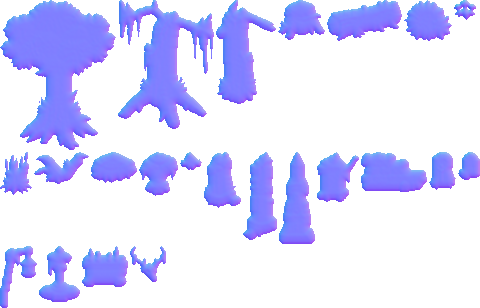
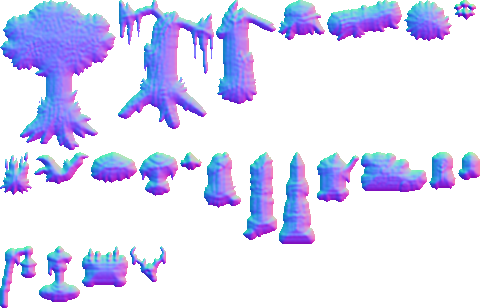
Normal map mais forte nos objetos de cenario
Normal = Sobel de uma altura: domo sqrt pela distancia ate a borda (raio 6-10 px,
~50-65 graus na borda), bojo amplo para o corpo inclinar, e passa-alta da
luminancia do albedo (borrao raio 3) como textura. Borda do alfa sem passa-alta
para nao virar faixa. Previa com 3 linhas: albedo, luz quente da esquerda e da
direita (Lambert + ambiente 0,25). Arvore, pedra e obelisco trocam de lado; o
muro ainda troca pouco.

Changed region(s): [[0.0, 0.0, 1.0, 0.8182], [0.0, 0.789, 0.3438, 1.0]]

diff --git a/jogos/hordas/prototipos/cara_nova/objetos/gerar_objetos.py b/jogos/hordas/prototipos/cara_nova/objetos/gerar_objetos.py
@@ -68,10 +68,15 @@ LIMIAR_ALFA = 128        # alfa binario: 50%
 COR_MAX = 40             # cores da folha toda (albedo)
 LARGURA_FOLHA = 480      # largura maxima da folha em px (empacotamento em prateleiras)
 PAD = 2                  # espaco entre sprites na folha
-ESTICA = 2.0             # exagero da inclinacao da normal
-ALTURA_LUM = 0.25        # quanto a luminancia entra no relevo (casca, folhas)
-ALTURA_BORDA = 0.30      # raio do domo = este fracao do menor lado (limitado entre 3 e 10 px)
-RAIO_MIN, RAIO_MAX = 3.0, 10.0
+INCLINA = 1.0           # ganho do gradiente (Sobel) da altura -> normal
+ALTURA_DOMO = 4.0        # altura do domo na borda: sqrt(distancia / raio), ~55 graus na borda
+BOJO_AMPLO = 10.0        # bojo amplo (metade do menor lado): o corpo inteiro inclina, e o lado da luz muda
+PESO_DETALHE = 8.0       # peso do passa-alta da luminancia (casca, tufos, tijolos, rachaduras)
+RAIO_DOMO = 0.25         # raio do domo = fracao do menor lado do objeto...
+RAIO_MIN, RAIO_MAX = 6.0, 10.0   # ...limitado entre 6 e 10 px
+RAIO_HP = 3              # raio do borrao do passa-alta (albedo menos borrao)
+AMB_PREVIA = 0.25        # ambiente da previa (Lambert + ambiente)
+COR_QUENTE = (1.0, 0.86, 0.66)   # cor da luz quente da previa
 LUM_CONTORNO = 60        # borda com luminancia acima disto ganha contorno escuro
 AMBIENTE = [0.6, 0.7, 0.62]
 
@@ -290,14 +295,23 @@ def pe_do_objeto(img):
 
 
 # ------------------------------------------------------------------ normal map
-def normal_do_objeto(img):
-    """Domo pela distancia ate a borda do alfa + um pouco da luminancia; suaviza 1 passe."""
-    w0, h0 = img.size
-    base = Image.new("RGBA", (w0 + 2, h0 + 2), (0, 0, 0, 0))
-    base.paste(img, (1, 1))
-    w, h = base.size
-    dados = base.tobytes()
-    alfa = dados[3::4]
+def _borrao(vals, w, h, r):
+    """Borrao de caixa de raio r (separado em x e y). Bordas usam so os vizinhos que existem."""
+    tmp = [0.0] * (w * h)
+    for y in range(h):
+        for x in range(w):
+            ks = range(max(0, x - r), min(w, x + r + 1))
+            tmp[y * w + x] = sum(vals[y * w + k] for k in ks) / len(ks)
+    out = [0.0] * (w * h)
+    for y in range(h):
+        for x in range(w):
+            ks = range(max(0, y - r), min(h, y + r + 1))
+            out[y * w + x] = sum(tmp[k * w + x] for k in ks) / len(ks)
+    return out
+
+
+def _distancia(alfa, w, h):
+    """Distancia (aprox. euclidiana, chamfer 3-4) de cada pixel opaco ate o pixel transparente mais perto."""
     INF = 1e9
     d = [0.0 if a == 0 else INF for a in alfa]
     for y in range(h):
@@ -328,42 +342,69 @@ def normal_do_objeto(img):
                 if x > 0:
                     v = min(v, d[i + w - 1] + 1.414)
             d[i] = v
-    raio = max(RAIO_MIN, min(RAIO_MAX, ALTURA_BORDA * min(w0, h0)))
-    H = [0.0] * (w * h)
-    for i in range(w * h):
-        if alfa[i] == 0:
-            continue
-        j = i * 4
-        lum = (0.299 * dados[j] + 0.587 * dados[j + 1] + 0.114 * dados[j + 2]) / 255.0
-        t = min(d[i] / raio, 1.0)
-        H[i] = math.sqrt(max(0.0, 1.0 - (1.0 - t) ** 2)) + ALTURA_LUM * lum
+    return d
 
-    def h_em(x, y):
+
+def normal_do_objeto(img):
+    """Altura = domo (sqrt da distancia ate a borda do alfa) + passa-alta da luminancia (textura).
+    Normal pelo Sobel dessa altura. Borda do alfa: sem passa-alta (nada de faixa do contorno), e o
+    domo cai a zero na borda, entao a normal vira inclinada e continua, sem degrau. 1 passe 3x3."""
+    w0, h0 = img.size
+    base = Image.new("RGBA", (w0 + 4, h0 + 4), (0, 0, 0, 0))
+    base.paste(img, (2, 2))
+    w, h = base.size
+    dados = base.tobytes()
+    alfa = dados[3::4]
+    n = w * h
+    opaco = [1.0 if a else 0.0 for a in alfa]
+    d = _distancia(alfa, w, h)
+    raio = max(RAIO_MIN, min(RAIO_MAX, RAIO_DOMO * min(w0, h0)))
+    dmax_amplo = max(1.0, 0.5 * min(w0, h0))
+    lum = [0.0] * n
+    for i in range(n):
+        if alfa[i]:
+            j = i * 4
+            lum[i] = (0.299 * dados[j] + 0.587 * dados[j + 1] + 0.114 * dados[j + 2]) / 255.0
+    borr_num = _borrao([lum[i] * opaco[i] for i in range(n)], w, h, RAIO_HP)
+    borr_den = _borrao(opaco, w, h, RAIO_HP)
+    H = [0.0] * n
+    for i in range(n):
+        if not alfa[i]:
+            continue
+        t = min(d[i] / raio, 1.0)
+        hp = 0.0
+        if d[i] > 1.5 and borr_den[i] > 0:
+            hp = lum[i] - borr_num[i] / borr_den[i]
+        bojo = BOJO_AMPLO * math.sqrt(min(d[i] / dmax_amplo, 1.0))
+        H[i] = ALTURA_DOMO * math.sqrt(t) + bojo + PESO_DETALHE * hp
+
+    def hh(x, y):
         return H[y * w + x] if 0 <= x < w and 0 <= y < h else 0.0
 
-    NX = [0.0] * (w * h)
-    NY = [0.0] * (w * h)
-    NZ = [1.0] * (w * h)
+    NX = [0.0] * n
+    NY = [0.0] * n
+    NZ = [1.0] * n
     for y in range(h):
         for x in range(w):
             i = y * w + x
-            if alfa[i] == 0:
+            if not alfa[i]:
                 continue
-            dhx = (h_em(x + 1, y) - h_em(x - 1, y)) / 2.0
-            dhy = (h_em(x, y + 1) - h_em(x, y - 1)) / 2.0
-            nx = -ESTICA * dhx
-            ny = ESTICA * dhy           # y de imagem cresce para baixo; G da normal sobe
+            gx = (hh(x + 1, y - 1) + 2 * hh(x + 1, y) + hh(x + 1, y + 1)
+                  - hh(x - 1, y - 1) - 2 * hh(x - 1, y) - hh(x - 1, y + 1)) / 8.0
+            gy = (hh(x - 1, y + 1) + 2 * hh(x, y + 1) + hh(x + 1, y + 1)
+                  - hh(x - 1, y - 1) - 2 * hh(x, y - 1) - hh(x + 1, y - 1)) / 8.0
+            nx = -INCLINA * gx
+            ny = INCLINA * gy           # y da imagem cresce para baixo; G da normal sobe
             m = math.sqrt(nx * nx + ny * ny + 1.0)
             NX[i], NY[i], NZ[i] = nx / m, ny / m, 1.0 / m
-    # 1 passe de suavizacao 3x3 so entre pixels opacos
     SX, SY, SZ = list(NX), list(NY), list(NZ)
     for y in range(h):
         for x in range(w):
             i = y * w + x
-            if alfa[i] == 0:
+            if not alfa[i]:
                 continue
             ax = ay = az = 0.0
-            n = 0
+            k_n = 0
             for dy in (-1, 0, 1):
                 for dx in (-1, 0, 1):
                     xx, yy = x + dx, y + dy
@@ -372,14 +413,14 @@ def normal_do_objeto(img):
                         ax += NX[k]
                         ay += NY[k]
                         az += NZ[k]
-                        n += 1
-            ax, ay, az = ax / n, ay / n, az / n
+                        k_n += 1
+            ax, ay, az = ax / k_n, ay / k_n, az / k_n
             m = math.sqrt(ax * ax + ay * ay + az * az) or 1.0
             SX[i], SY[i], SZ[i] = ax / m, ay / m, az / m
     out = bytearray(w * h * 4)
-    for i in range(w * h):
+    for i in range(n):
         j = i * 4
-        if alfa[i] == 0:
+        if not alfa[i]:
             out[j:j + 4] = b"\x80\x80\xff\x00"
         else:
             out[j] = max(0, min(255, int(round((SX[i] * 0.5 + 0.5) * 255))))
@@ -387,7 +428,28 @@ def normal_do_objeto(img):
             out[j + 2] = max(0, min(255, int(round((SZ[i] * 0.5 + 0.5) * 255))))
             out[j + 3] = 255
     normal = Image.frombytes("RGBA", (w, h), bytes(out))
-    return normal.crop((1, 1, w0 + 1, h0 + 1))
+    return normal.crop((2, 2, w0 + 2, h0 + 2))
+
+
+def inclinacao_graus(nor, alb):
+    """Diagnostico: inclinacao da normal (graus da vertical) na borda do alfa e no miolo."""
+    w, h = nor.size
+    dn = nor.tobytes()
+    da = alb.tobytes()
+    borda, miolo = [], []
+    for y in range(h):
+        for x in range(w):
+            i = y * w + x
+            if da[i * 4 + 3] == 0:
+                continue
+            nz = dn[i * 4 + 2] / 255.0 * 2 - 1
+            ang = math.degrees(math.acos(max(-1.0, min(1.0, nz))))
+            fronteira = any(not (0 <= xx < w and 0 <= yy < h and da[(yy * w + xx) * 4 + 3])
+                            for xx, yy in ((x - 1, y), (x + 1, y), (x, y - 1), (x, y + 1)))
+            (borda if fronteira else miolo).append(ang)
+    borda.sort()
+    miolo.sort()
+    return (borda[len(borda) // 2] if borda else 0.0, miolo[int(len(miolo) * 0.95)] if miolo else 0.0)
 
 
 # ------------------------------------------------------------------ folha
@@ -423,36 +485,78 @@ def quantizar(folha, cores):
     return q
 
 
+def _normaliza(v):
+    m = math.sqrt(sum(c * c for c in v)) or 1.0
+    return tuple(c / m for c in v)
+
+
+def iluminar(alb, nor, lado):
+    """Lambert sobre a normal + ambiente AMB_PREVIA, com luz quente. lado = -1 (esquerda) ou +1 (direita)."""
+    luz = _normaliza((0.95 * lado, 0.3, 0.3))
+    w, h = alb.size
+    da = alb.tobytes()
+    dn = nor.tobytes()
+    out = bytearray(w * h * 4)
+    for i in range(w * h):
+        j = i * 4
+        if da[j + 3] == 0:
+            continue
+        nx = dn[j] / 255.0 * 2 - 1
+        ny = dn[j + 1] / 255.0 * 2 - 1
+        nz = dn[j + 2] / 255.0 * 2 - 1
+        lamb = max(0.0, nx * luz[0] + ny * luz[1] + nz * luz[2])
+        k = AMB_PREVIA + (1.0 - AMB_PREVIA) * lamb
+        for c in range(3):
+            out[j + c] = min(255, int(da[j + c] * k * COR_QUENTE[c]))
+        out[j + 3] = 255
+    return Image.frombytes("RGBA", (w, h), bytes(out))
+
+
 def previa(faixas, caminho):
-    """Faixas (lista de (titulo, [(nome, albedo, normal)])) em escala 3x: albedo em cima, normal embaixo."""
+    """Cada faixa: 3 linhas (albedo, luz da esquerda, luz da direita), escala 3x, objetos lado a lado."""
     ESC = 3
     GAP = 14
     fonte = ImageFont.load_default(size=13)
     cinza = (0x5a, 0x5a, 0x64, 255)
-    alturas = []
-    larguras = []
-    for _, itens in faixas:
-        larg = sum(a.width * ESC + GAP for _, a, _n in itens) + GAP
-        alt = max(a.height for _, a, _n in itens) * ESC
-        larguras.append(larg)
-        alturas.append(alt * 2 + 60)
-    tela = Image.new("RGBA", (max(larguras), sum(alturas) + 20 * len(faixas)), cinza)
+    rotulos = ["albedo", "luz quente da esquerda", "luz quente da direita"]
+    prontas = []
+    for titulo, itens in faixas:
+        linhas = [
+            [alb for _, alb, _n in itens],
+            [iluminar(alb, nor, -1) for _, alb, nor in itens],
+            [iluminar(alb, nor, +1) for _, alb, nor in itens],
+        ]
+        prontas.append((titulo, itens, linhas))
+    largura = 0
+    altura = 0
+    for titulo, itens, linhas in prontas:
+        larg = GAP + sum(a.width * ESC + GAP for a in linhas[0])
+        largura = max(largura, larg)
+        for linha in linhas:
+            altura += 16 + max(a.height for a in linha) * ESC + 12
+        altura += 22 + 30 + 20
+    tela = Image.new("RGBA", (largura, altura + 10), cinza)
     d = ImageDraw.Draw(tela)
     y0 = 10
-    for (titulo, itens), alt in zip(faixas, alturas):
+    for titulo, itens, linhas in prontas:
         d.text((GAP, y0), titulo, fill=(255, 255, 255, 255), font=fonte)
-        y_alb = y0 + 24
-        alt_linha = max(a.height for _, a, _n in itens) * ESC
-        y_nor = y_alb + alt_linha + 14
+        y = y0 + 22
+        for rotulo, linha in zip(rotulos, linhas):
+            d.text((GAP, y), rotulo, fill=(255, 240, 200, 255), font=fonte)
+            y += 16
+            alt_linha = max(a.height for a in linha) * ESC
+            x = GAP
+            for a in linha:
+                a3 = a.resize((a.width * ESC, a.height * ESC), Image.NEAREST)
+                tela.alpha_composite(a3, (x, y + alt_linha - a3.height))
+                x += a3.width + GAP
+            y += alt_linha + 12
         x = GAP
-        for nome, alb, nor in itens:
-            a3 = alb.resize((alb.width * ESC, alb.height * ESC), Image.NEAREST)
-            n3 = nor.resize((nor.width * ESC, nor.height * ESC), Image.NEAREST)
-            tela.alpha_composite(a3, (x, y_alb + alt_linha - a3.height))
-            tela.alpha_composite(n3, (x, y_nor + alt_linha - n3.height))
-            d.text((x, y_nor + alt_linha + 4), nome, fill=(230, 230, 230, 255), font=fonte)
-            x += a3.width + GAP
-        y0 += alt + 20
+        for (nome, _a, _n), a in zip(itens, linhas[0]):
+            d.text((x, y), nome, fill=(230, 230, 230, 255), font=fonte)
+            x += a.width * ESC + GAP
+        y += 30
+        y0 = y + 20
     tela.convert("RGB").save(caminho)
 
 
@@ -471,6 +575,8 @@ def main():
             alb = contorno(binarizar(esc))
             alb = alb.crop(alb.getbbox())      # tira a linha/coluna transparente que sobra do limiar
             nor = normal_do_objeto(alb)
+            borda_g, miolo_g = inclinacao_graus(nor, alb)
+            print("      inclinacao na borda %.0f graus (mediana), no miolo %.0f (p95)" % (borda_g, miolo_g))
             pe = pe_do_objeto(alb)
             sprites.append((nome, peso, alb, nor, pe))
             itens.append((nome, alb, nor))
